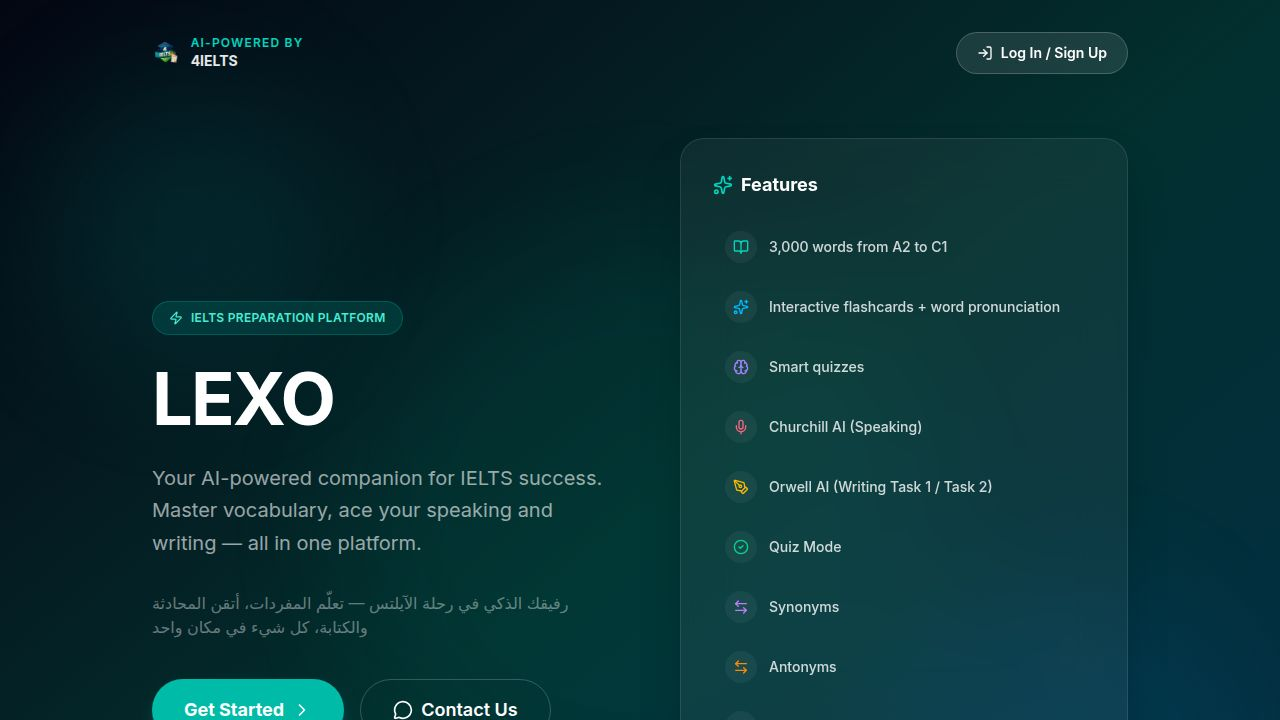
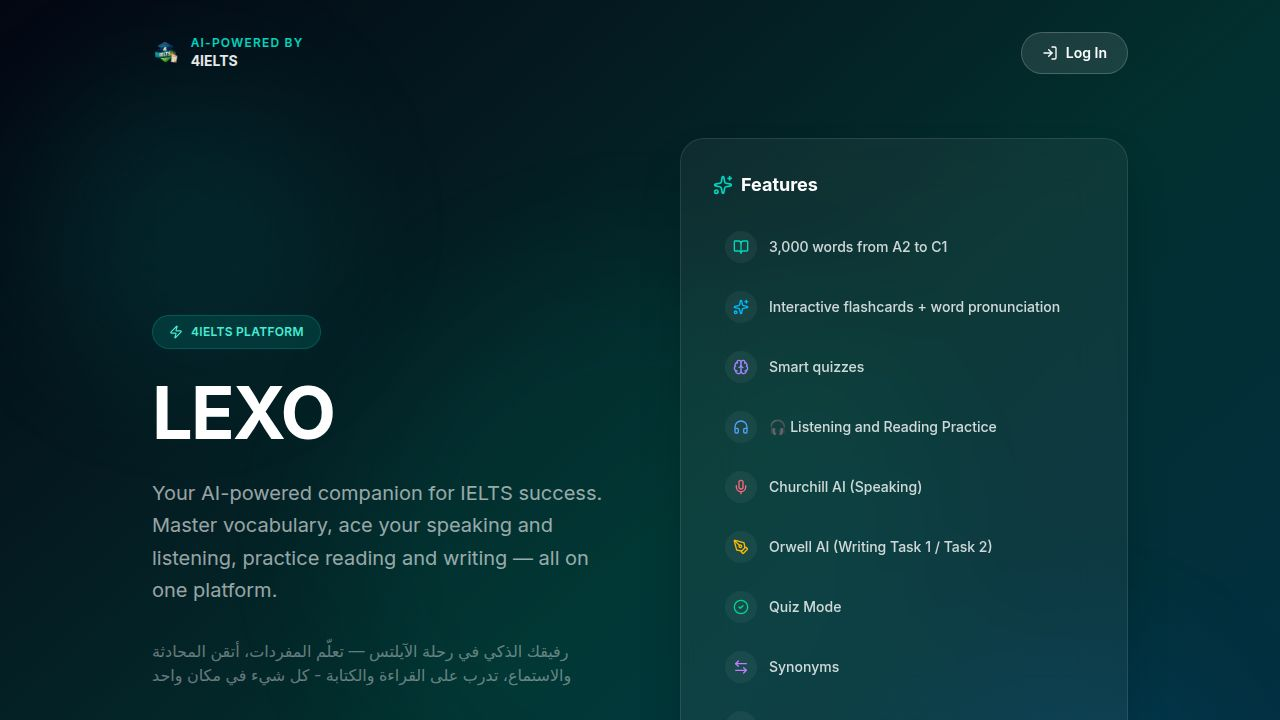
Add new listening practice test with audio files and detailed questions
Adds Cambridge IELTS 20 Listening Test 2 to the `listening-test.ts` data file, including audio files for all four parts. The test features a variety of question formats: fill-in-the-table, matching, and multiple-choice questions.

Replit-Commit-Author: Agent
Replit-Commit-Session-Id: 0a386c50-69bf-473d-890a-b9a11d213037
Replit-Commit-Checkpoint-Type: full_checkpoint
Replit-Commit-Event-Id: 0f7ca0f8-c690-4d45-951c-a626743d60af
Replit-Commit-Screenshot-Url: https://storage.googleapis.com/screenshot-production-us-central1/12ccca23-bba3-4fa4-a59b-c0d4091b23ef/0a386c50-69bf-473d-890a-b9a11d213037/WgsTAMs
Replit-Helium-Checkpoint-Created: true

diff --git a/artifacts/flashcards/src/data/listening-test.ts b/artifacts/flashcards/src/data/listening-test.ts
@@ -211,6 +211,164 @@ export const listeningTests: ListeningTest[] = [
       },
     ],
   },
+  {
+    id: "listening-2",
+    label: "Test 2",
+    source: "Cambridge IELTS 20 — Test 2",
+    parts: [
+      {
+        id: 1,
+        title: "Support for Carers",
+        audioSrc: "/listening2-part1.mp3",
+        questionRange: "Questions 1–10",
+        tableHtml: `<table class="w-full text-sm border-collapse">
+<thead><tr class="bg-muted/60"><th class="border border-border p-2 text-left font-bold" colspan="2">Support for people caring for elderly relatives at home</th></tr></thead>
+<tbody>
+<tr><td class="border border-border p-2 font-medium w-1/3">Benefit for the carer</td><td class="border border-border p-2">Time for other responsibilities; a <strong>(1) ________</strong></td></tr>
+<tr class="bg-muted/30"><td class="border border-border p-2 font-medium" colspan="2">Assessment of mother's needs — may include:</td></tr>
+<tr><td class="border border-border p-2 pl-6">How much caring</td><td class="border border-border p-2">How much <strong>(2) ________</strong> it involves</td></tr>
+<tr><td class="border border-border p-2 pl-6">Tasks involved</td><td class="border border-border p-2">Dressing · having a <strong>(3) ________</strong> · shopping · meals · dealing with <strong>(4) ________</strong></td></tr>
+<tr><td class="border border-border p-2 pl-6">Especially difficult aspects</td><td class="border border-border p-2">Loss of <strong>(5) ________</strong> · <strong>(6) ________</strong> her · preventing a <strong>(7) ________</strong></td></tr>
+<tr class="bg-muted/30"><td class="border border-border p-2 font-medium" colspan="2">Types of support that may be offered:</td></tr>
+<tr><td class="border border-border p-2 pl-6">Transport costs</td><td class="border border-border p-2">Cost of a <strong>(8) ________</strong></td></tr>
+<tr><td class="border border-border p-2 pl-6">Car-related costs</td><td class="border border-border p-2">Fuel and <strong>(9) ________</strong></td></tr>
+<tr><td class="border border-border p-2 pl-6">Other support</td><td class="border border-border p-2">Help with housework · help to reduce <strong>(10) ________</strong></td></tr>
+</tbody></table>`,
+        questionSections: [
+          {
+            instruction: "Complete the table below.\nWrite ONE WORD AND/OR A NUMBER for each answer.",
+            type: "fill",
+            questions: [
+              { num: 1, text: "Local councils can give the carer a ________ (time off)", answer: "break" },
+              { num: 2, text: "Assessment includes how much ________ the caring involves", answer: "time" },
+              { num: 3, text: "Tasks include helping her have a ________", answer: "shower" },
+              { num: 4, text: "Tasks include dealing with ________", answer: "money" },
+              { num: 5, text: "A difficult aspect: loss of ________", answer: "memory" },
+              { num: 6, text: "A difficult aspect: ________ her", answer: "lifting" },
+              { num: 7, text: "A difficult aspect: preventing a ________", answer: "fall" },
+              { num: 8, text: "Transport costs: cost of a ________", answer: "taxi" },
+              { num: 9, text: "Car-related costs: fuel and ________", answer: "insurance" },
+              { num: 10, text: "Help to reduce ________", answer: "stress" },
+            ],
+          },
+        ],
+      },
+      {
+        id: 2,
+        title: "Volunteering in the Community",
+        audioSrc: "/listening2-part2.mp3",
+        questionRange: "Questions 11–20",
+        questionSections: [
+          {
+            instruction: "What is the role of the volunteers in each of the following activities?\nChoose the correct letter, A–I, next to Questions 11–16.\n\nA. providing entertainment\nB. providing publicity about a council service\nC. contacting local businesses\nD. giving advice to visitors\nE. collecting feedback on events\nF. selling tickets\nG. introducing guest speakers at an event\nH. encouraging cooperation between local organisations\nI. helping people find their seats",
+            type: "mc",
+            options: [
+              { label: "A", text: "providing entertainment" },
+              { label: "B", text: "providing publicity about a council service" },
+              { label: "C", text: "contacting local businesses" },
+              { label: "D", text: "giving advice to visitors" },
+              { label: "E", text: "collecting feedback on events" },
+              { label: "F", text: "selling tickets" },
+              { label: "G", text: "introducing guest speakers at an event" },
+              { label: "H", text: "encouraging cooperation between local organisations" },
+              { label: "I", text: "helping people find their seats" },
+            ],
+            questions: [
+              { num: 11, text: "Walking around the town centre", answer: "D" },
+              { num: 12, text: "Helping at concerts", answer: "I" },
+              { num: 13, text: "Getting involved with community groups", answer: "H" },
+              { num: 14, text: "Helping with a magazine", answer: "E" },
+              { num: 15, text: "Participating at lunches for retired people", answer: "A" },
+              { num: 16, text: "Helping with the website", answer: "B" },
+            ],
+          },
+          {
+            instruction: "Choose the correct letter, A, B or C.",
+            type: "mc",
+            options: [
+              { label: "A", text: "A" },
+              { label: "B", text: "B" },
+              { label: "C", text: "C" },
+            ],
+            questions: [
+              { num: 17, text: "Which event requires the largest number of volunteers?\nA. the music festival\nB. the science festival\nC. the book festival", answer: "B" },
+              { num: 18, text: "What is the most important requirement for volunteers at the festivals?\nA. interpersonal skills\nB. personal interest in the event\nC. flexibility", answer: "A" },
+              { num: 19, text: "New volunteers will start working in the week beginning\nA. 2 September.\nB. 9 September.\nC. 23 September.", answer: "B" },
+              { num: 20, text: "What is the next annual event for volunteers?\nA. a boat trip\nB. a barbecue\nC. a party", answer: "A" },
+            ],
+          },
+        ],
+      },
+      {
+        id: 3,
+        title: "Human Geography Assignment",
+        audioSrc: "/listening2-part3.mp3",
+        questionRange: "Questions 21–30",
+        questionSections: [
+          {
+            instruction: "What is Rosie and Colin's opinion about each of the following aspects of human geography?\nChoose the correct letter, A–G, next to Questions 21–25.\n\nA. The information given about this was too vague.\nB. This may not be relevant to their course.\nC. This will involve only a small number of statistics.\nD. It will be easy to find facts about this.\nE. The facts about this may not be reliable.\nF. No useful research has been done on this.\nG. The information provided about this was interesting.",
+            type: "mc",
+            options: [
+              { label: "A", text: "The information given about this was too vague." },
+              { label: "B", text: "This may not be relevant to their course." },
+              { label: "C", text: "This will involve only a small number of statistics." },
+              { label: "D", text: "It will be easy to find facts about this." },
+              { label: "E", text: "The facts about this may not be reliable." },
+              { label: "F", text: "No useful research has been done on this." },
+              { label: "G", text: "The information provided about this was interesting." },
+            ],
+            questions: [
+              { num: 21, text: "Population", answer: "D" },
+              { num: 22, text: "Health", answer: "G" },
+              { num: 23, text: "Economies", answer: "B" },
+              { num: 24, text: "Culture", answer: "A" },
+              { num: 25, text: "Poverty", answer: "E" },
+            ],
+          },
+          {
+            instruction: "Choose the correct letter, A, B or C.",
+            type: "mc",
+            options: [
+              { label: "A", text: "A" },
+              { label: "B", text: "B" },
+              { label: "C", text: "C" },
+            ],
+            questions: [
+              { num: 26, text: "Rosie says that in her own city the main problem is\nA. crime.\nB. housing.\nC. unemployment.", answer: "C" },
+              { num: 27, text: "What recent additions to the outskirts of their cities are both students happy about?\nA. conference centres\nB. sports centres\nC. retail centres", answer: "A" },
+              { num: 28, text: "The students agree that developing disused industrial sites may\nA. have unexpected costs.\nB. damage the urban environment.\nC. destroy valuable historical buildings.", answer: "A" },
+              { num: 29, text: "The students will mention Masdar City as an example of an attempt to achieve\nA. daily collections for waste recycling.\nB. sustainable energy use.\nC. free transport for everyone.", answer: "B" },
+              { num: 30, text: "When discussing the Eco town of Greenhill Abbots, Colin is uncertain about\nA. what its objectives were.\nB. why there was opposition to it.\nC. how much of it has actually been built.", answer: "C" },
+            ],
+          },
+        ],
+      },
+      {
+        id: 4,
+        title: "Developing Food Trends",
+        audioSrc: "/listening2-part4.mp3",
+        questionRange: "Questions 31–40",
+        questionSections: [
+          {
+            instruction: "Complete the notes below.\nWrite ONE WORD ONLY for each answer.\n\nDeveloping food trends",
+            type: "fill",
+            questions: [
+              { num: 31, text: "The growth in interest in food fashions started with ________ of food being shared on social media.", answer: "photos", alternateAnswers: ["photographs", "pictures"] },
+              { num: 32, text: "Sales of ________ food brands have grown through social media influencers.", answer: "vegan" },
+              { num: 33, text: "Famous ________ are influential in food trends.", answer: "chefs", alternateAnswers: ["cooks"] },
+              { num: 34, text: "________ were invited to visit avocado growers in South Africa.", answer: "journalists", alternateAnswers: ["reporters"] },
+              { num: 35, text: "Avocado advertising focused on its ________ benefits.", answer: "health" },
+              { num: 36, text: "Oat milk was promoted in the USA through ________ shops.", answer: "coffee" },
+              { num: 37, text: "Oat milk appealed to consumers concerned about the ________.", answer: "environment" },
+              { num: 38, text: "Norwegian skrei helped strengthen the ________ of Norwegian seafood.", answer: "reputation" },
+              { num: 39, text: "Quinoa's success led to an increase in its ________.", answer: "price", alternateAnswers: ["cost"] },
+              { num: 40, text: "Overuse of resources resulted in poor quality ________.", answer: "soil" },
+            ],
+          },
+        ],
+      },
+    ],
+  },
 ];
 
 export function calculateListeningBand(correct: number): { band: number; label: string } {